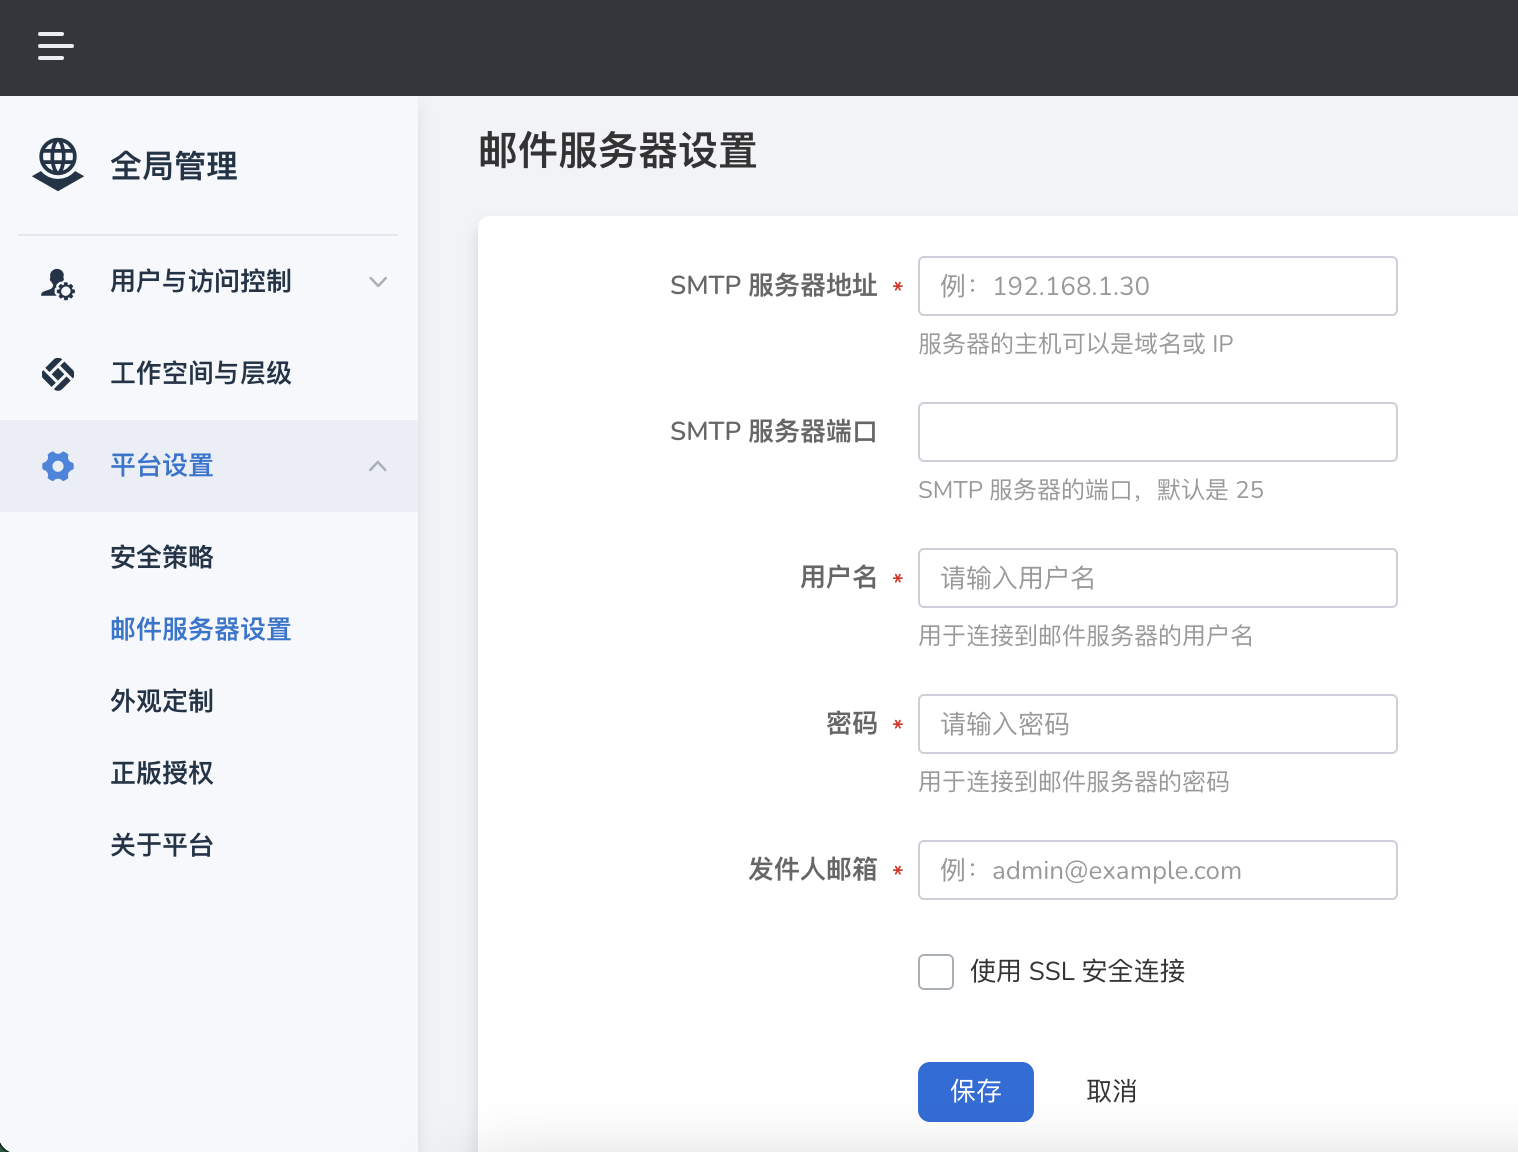
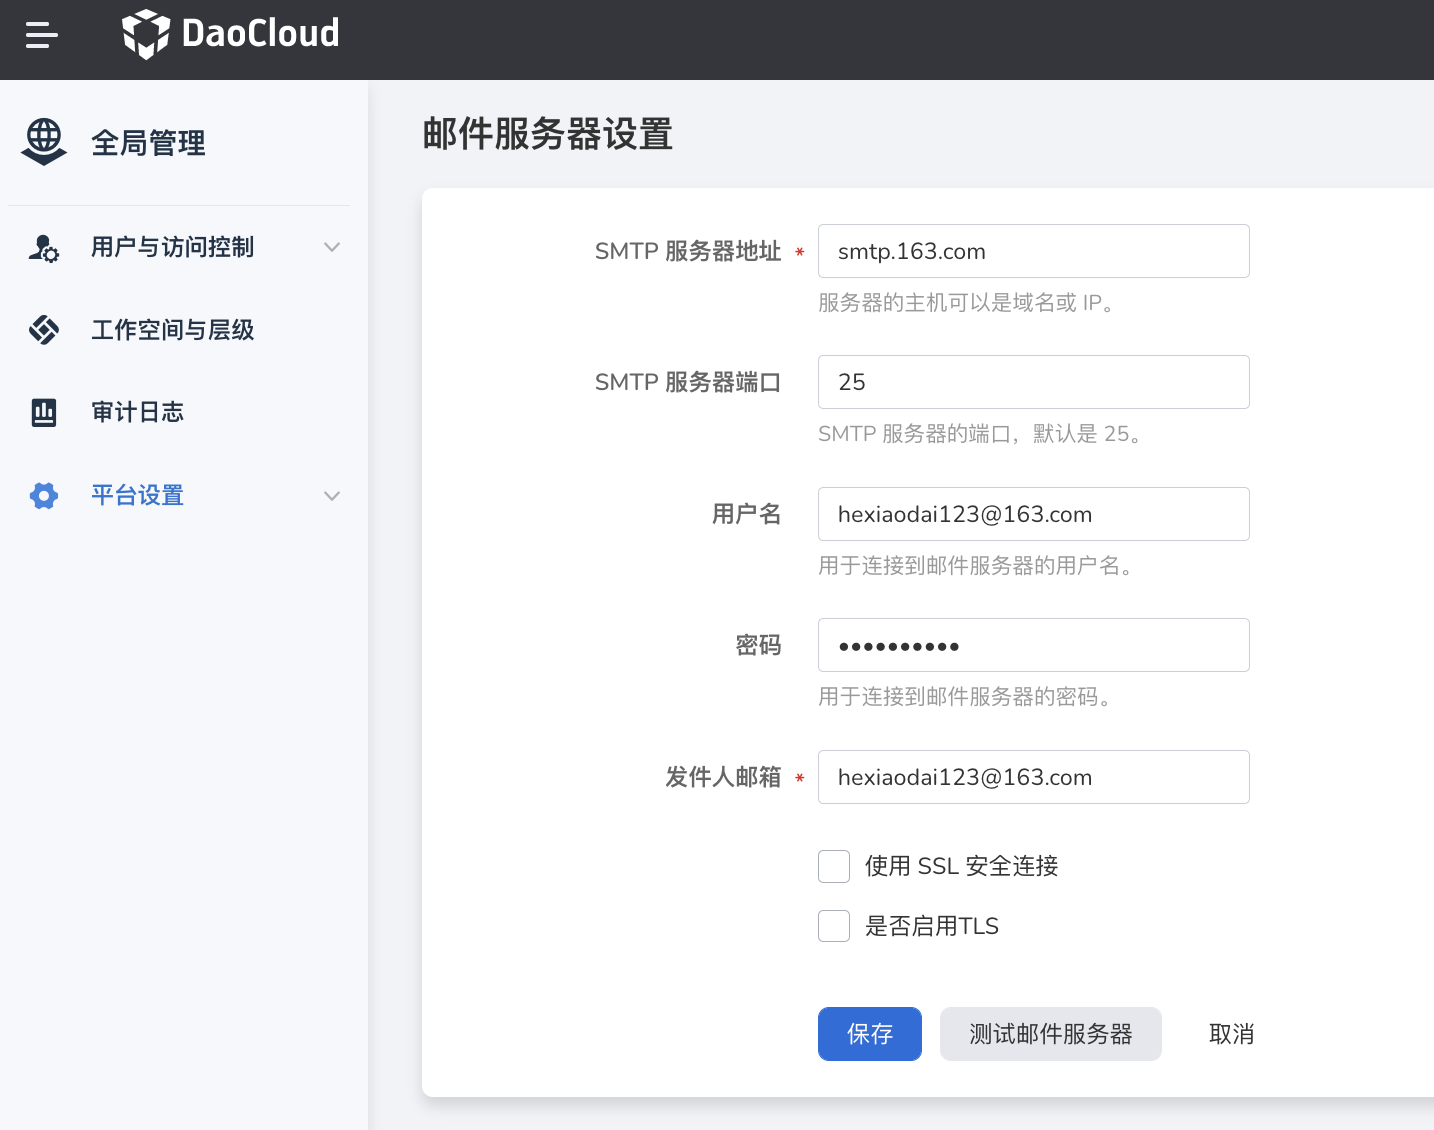
updated insight pages

diff --git a/docs/zh/docs/insight/09FAQs/installagentindce.md b/docs/zh/docs/insight/09FAQs/installagentindce.md
@@ -1,15 +1,17 @@
 # DCE 4.0 中安装 insight-agent
 
-## 背景
-在DCE 5.0 中，DCE 4.0 可作为子集群被接入，但由于大多数客户的 DCE4.0 集群已安装 dx-insight 作为监控系统，若此时安装 insight-agent 会与集群中已有的 prometheus operator 冲突无法顺利安装。
+在 DCE 5.0 中，可以将以前的 DCE 4.0 可作为子集群接入。
+但由于大多数 DCE 4.0 集群已安装 dx-insight 作为监控系统，若此时安装 insight-agent 会与集群中已有的 prometheus operator 冲突，导致无法顺利安装。
 
 ## 方案
 
-通过开启 prometheus operator 的参数，同时保留 dx-insight 中的 prometheus operator并兼容 5.0 中 insight-agent 的 prometheus operator。
+解决方案是：开启 prometheus operator 的参数，保留 dx-insight 中的 prometheus operator，并兼容 5.0 中 insight-agent 的 prometheus operator。
 
-## 操作步骤
+具体操作步骤如下：
 
-1. 登陆到命令行，分别在两个 prometheus operator 中启用 --deny-namespaces参数，请执行以下命令（以下命令仅供参考，请替换命令中的 prometheus operator的名称和命名空间。）
+1. 登录到控制台。
+1. 分别在两个 prometheus operator 中启用 `--deny-namespaces` 参数。
+1. 执行以下命令（以下命令仅供参考，实际需替换命令中的 prometheus operator 名称和命名空间）。
 
     ```bash
     kubectl edit deploy insight-agent-kube-prometh-operator -n insight-system
@@ -17,24 +19,21 @@
 
     ![operatoryaml](../images/promerator.png)
 
-!!! Note
+!!! note
 
-    - 比如 dx-insight 组件都部署在 dx-insight租户下， insight-agent 都部署在 insight-system 租户下，如上图：在 dx-insight 中的 prometheus operator 中添加 --deny-namespaces=insight-system，在 insight-agent 中的 prometheus operato r添加 --deny-namespaces=dx-insight。
-    - 只添加deny namespace，两个prometheus operator都可以继续扫描除此之外的命名空间，kube-system 或客户业务命名空间下的相关采集资源不受影响。
-    -  请注意 node exporter 端口冲突的问题。
-
+    - 如上图 dx-insight 组件部署在 dx-insight 租户下，insight-agent 部署在 insight-system 租户下。
+      在 dx-insight 中的 prometheus operator 中添加 `--deny-namespaces=insight-system`，
+      在 insight-agent 中的 prometheus operator 中添加 `--deny-namespaces=dx-insight`。
+    - 只添加 deny namespace，两个 prometheus operator 都可以继续扫描除此之外的命名空间，而 kube-system 或客户业务命名空间下的相关采集资源不受影响。
+    - 请注意 node exporter 端口冲突的问题。
 
 ## 补充说明
 
-### 描述
+开源 `node-exporter` 默认开启 hostnetwork 且默认端口为 9100。
+若集群已有的监控系统已安装 `node-exporter`，则在安装 `insight-agent` 时会因为 node-exporter 端口冲突而无法正常运行。
 
-由于开源 `node-exporter` 默认开启 hostnetwork 且默认端口为 9100，若集群已有的监控系统已安装 `node-exporter` ，则在安装 `insight-agent` 时会因为 node-exporter 端口冲突而无法正常运行。
+!!! note
 
-!!! Note
+    Insight 的 `node exporter` 会开启一些特性来采集特殊指标，所以推荐安装。
 
-    insight 的 `node exporter` 有做一些特性的开启来采集特殊指标，所以推荐安装。
-    
-### 解决方法
-
-目前不支持在安装命令中修改端口，需要在 helm install insight-agent 之后手动修改 insight node-exporter daemonset和svc的相关端口，如下图
-
+目前不支持在安装命令中修改端口，需要在 `helm install insight-agent` 之后手动修改 insight node-exporter daemonset 和 svc 的相关端口。

diff --git a/docs/zh/docs/ghippo/04UserGuide/04PlatformSetting/MailServer.md b/docs/zh/docs/ghippo/04UserGuide/04PlatformSetting/MailServer.md
@@ -5,7 +5,8 @@ hide:
 
 # 邮件服务器
 
-DCE 5.0 会在用户忘记密码时向用户发送电子邮件以验证他们的电子邮件地址，确保用户是本人操作。要使 DCE 5.0 能够发送电子邮件，您需要像 DCE 5.0 提供您的邮件服务器地址
+DCE 5.0 会在用户忘记密码时，向用户发送电子邮件以验证电子邮件地址，确保用户是本人操作。
+要使 DCE 5.0 能够发送电子邮件，需要先提供您的邮件服务器地址。
 
 具体操作步骤如下：
 
@@ -13,25 +14,33 @@ DCE 5.0 会在用户忘记密码时向用户发送电子邮件以验证他们的
 
     ![全局管理](../../images/ws01.png)
 
-2. 点击`平台设置`，选择`邮件服务器设置`。
+1. 点击`平台设置`，选择`邮件服务器设置`。
 
     ![邮件服务器](../../images/mail01.png)
 
     填写以下字段配置邮件服务器：
 
-    - SMTP 服务器地址：能够提供邮件服务的 SMTP 服务器地址。
-    - SMTP 服务器端口：端口通常是 `25`。
-    - 用户名：SMTP 用户的名称。
-    - 密码：SMTP 帐户的密码。
-    - 发件人邮箱：发件人的邮箱地址。
-    - 使用 SSL 安全连接：SSL 可以用于加密邮件，从而提高通过邮件传输的信息的安全性。通常来说，您必须为邮件服务器配置证书。
+    | 字段              | 描述                                                         | 举例值       |
+    | ----------------- | ------------------------------------------------------------ | ------------ |
+    | SMTP 服务器地址   | 能够提供邮件服务的 SMTP 服务器地址                           | smtp.163.com |
+    | SMTP 服务器端口   | 发送邮件的端口                                               | 25           |
+    | 用户名            | SMTP 用户的名称                                              | test@163.com |
+    | 密码              | SMTP 账户的密码                                              | 123456       |
+    | 发件人邮箱        | 发件人的邮箱地址                                             | test@163.com |
+    | 使用 SSL 安全连接 | SSL 可以用于加密邮件，从而提高通过邮件传输的信息的安全性，通常需为邮件服务器配置证书 | 不开启       |
 
-3. 配置完成后点击`保存`。
+1. 配置完成后点击`保存`，点击`测试邮件服务器`。
+
+    ![测试](../../images/mail02.png)
+
+1. 屏幕右上角出现成功发送邮件的提示，则表示邮件服务器被成功设置。
+
+    ![成功](../../images/mail03.png)
 
 ## 常见问题
 
 问：邮件服务器设置后用户仍无法找回密码是什么原因？
 
-答：用户可能未设置邮箱或者设置了错误的邮箱地址；此时可以让有 admin 角色的用户在`全局管理` -> `用户与访问控制`中通过用户名找到该用户，并在用户详情中为该用户设置新的登录密码。
+答：用户可能未设置邮箱或者设置了错误的邮箱地址；此时可以让 admin 角色的用户在`全局管理` -> `用户与访问控制`中通过用户名找到该用户，并在用户详情中为该用户设置新的登录密码。
 
-如果邮件服务器没有通，请检查邮件服务器地址、用户名及密码是否正确。
+如果邮件服务器没有连通，请检查邮件服务器地址、用户名及密码是否正确。

diff --git a/docs/zh/docs/insight/09FAQs/debugtrace.md b/docs/zh/docs/insight/09FAQs/debugtrace.md
@@ -2,7 +2,20 @@
 
 在尝试排查链路数据采集的问题前，需先理解链路数据的传输路径，下面是链路数据传输示意图：
 
-![traceDatatransmission](../images/debugtrace00.png)
+```mermaid
+graph TB
+
+sdk[Language proble / SDK] --> workload[Workload cluster otel collector]
+--> otel[Global cluster otel collector]
+--> jaeger[Global cluster jaeger collector]
+--> es[Elasticsearch cluster]
+
+classDef plain fill:#ddd,stroke:#fff,stroke-width:1px,color:#000;
+classDef k8s fill:#326ce5,stroke:#fff,stroke-width:1px,color:#fff;
+classDef cluster fill:#fff,stroke:#bbb,stroke-width:1px,color:#326ce5;
+
+class sdk,workload,otel,jaeger,es cluster
+```
 
 如上图所示，在任一步骤传输失败都会导致无法查询出链路数据。如果您在完成应用链路增强后发现没有链路数据，请执行以下步骤：
 

diff --git a/docs/zh/docs/insight/09FAQs/importdashboard.md b/docs/zh/docs/insight/09FAQs/importdashboard.md
@@ -13,7 +13,6 @@
 3. 点击 `Yaml 创建`，使用以下模板，在 `Json` 字段中替换仪表盘 JSON。
 
     - `namespace`：填写目标命名空间；
-
     - `name`：填写仪表盘的名称。
 
     ```yaml
@@ -71,9 +70,7 @@
 2. 可选择以下方式导入：
 
     - 上传仪表盘 JSON 文件
-
     - 粘贴 [Grafana.com](https://grafana.com)仪表盘 URL
-
     - 粘贴仪表盘 JSON 到文本区域
 
     ![导入仪表盘](../images/importboard02.png)
@@ -81,9 +78,7 @@
 3. 点击 `Load` 后，填写以下参数：
 
     - name：设置仪表盘的名称
-
     - Floder：选择仪表盘存储的目标路径
-
     - Prometheus：选择数据源
 
     ![导入仪表盘](../images/importboard03.png)
